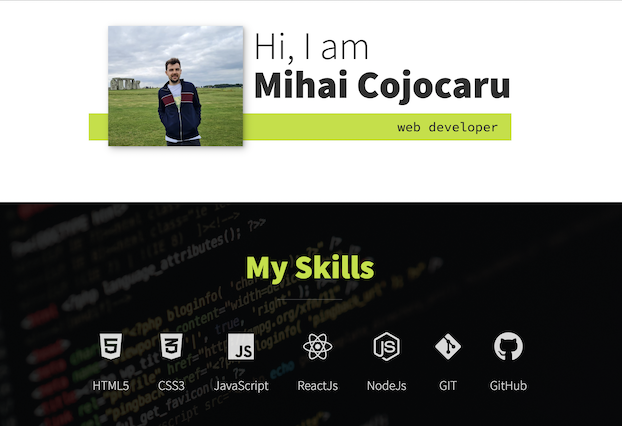
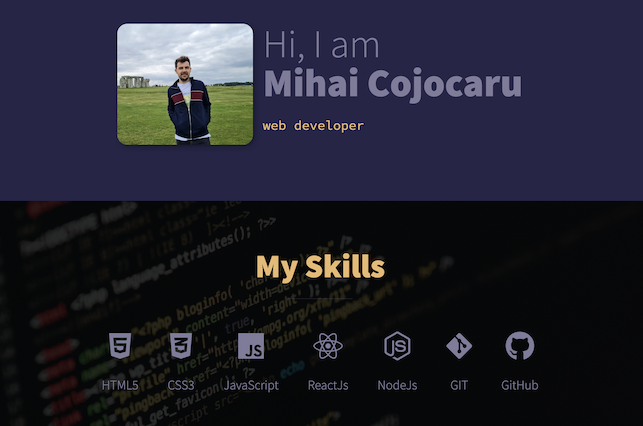
colors updated

diff --git a/style.css b/style.css
@@ -13,9 +13,11 @@
     --fw-reg: 300;
     --fw-bold: 900;
 
-    --clr-light: #fff;
-    --clr-dark: #303030;
-    --clr-accent: #bee016;
+    --clr-light: #7F7C9B;
+    --clr-dark: #111;
+    --clr-accent: #EBB96E;
+
+    --bg-color: #262548;
 
     --fs-h1: 3rem;
     --fs-h2: 2.25rem;
@@ -42,8 +44,8 @@ html {
 }
 
 body {
-    background: var(--clr-light);
-    color: var(--clr-dark);
+    background: var(--bg-color);
+    color: var(--clr-light);
     margin: 0;
     font-family: var(--ff-primary);
     font-size: var(--fs-body);
@@ -67,10 +69,11 @@ strong {
 
 .btn {
     display: inline-block;
-    padding: 0.5em 1.5em;
+    padding: 0.5em 1em;
     background: var(--clr-accent);
     color: var(--clr-dark);
     text-decoration: none;
+    border-radius: .5em;
     cursor: pointer;
     font-size: 0.8rem;
     text-transform: uppercase;
@@ -80,7 +83,7 @@ strong {
 }
 
 .btn:hover {
-    transform: scale(1.1);
+    background-color: var(--clr-light);
 }
 
 /* Typography */
@@ -123,9 +126,9 @@ h3 {
 
 .section__subtitle--intro,
 .section__subtitle--about {
-    background: var(--clr-accent);
+    color: var(--clr-accent);
     font-family: var(--ff-secondary);
-    padding: 0.25em 1em;
+    padding: 0.25em 0;
     margin-bottom: 1em;
 }
 
@@ -140,7 +143,8 @@ h3 {
 .header {
     display: flex;
     justify-content: space-between;
-    padding: 1em;
+    padding: 1.2em 2em;
+    box-shadow: var(--bs);
 }
 
 .logo {
@@ -148,6 +152,7 @@ h3 {
     align-items: center;
     gap: 0.3em;
     height: 1em;
+    color: var(--clr-accent);
 }
 
 .logo p {
@@ -161,7 +166,7 @@ h3 {
 
 .nav {
     position: fixed;
-    background: var(--clr-dark);
+    background: var(--bg-color);
     color: var(--clr-light);
     top: 0;
     bottom: 0;
@@ -264,6 +269,7 @@ h3 {
 
 .intro__img {
     box-shadow: var(--bs);
+    border-radius: 1em;
 }
 
 .section__subtitle--intro {
@@ -286,44 +292,28 @@ h3 {
         grid-area: img;
         min-width: 250px;
         position: relative;
-        z-index: 2;
-    }
-
-    .section__subtitle--intro {
-        align-self: start;
-        grid-column: -1 / 1;
-        grid-row: 2;
-        text-align: right;
-        position: relative;
-        left: -1.5em;
-        width: calc(100% + 1.5em);
+        border-radius: 1em;
     }
 }
 
 /* My skills section */
 
 .my-skills {
-    background-color: var(--clr-dark);
+    background-color: #333;
     background-image: url(./images/skills-bg.jpg);
     background-size: cover;
     background-blend-mode: multiply;
     color: var(--clr-light);
     text-align: center;
+    box-shadow: var(--bs);
+    margin-left: 2em;
+    margin-right: 2em;
+    border-radius: 1em;
 }
 
 .section__title--skills {
     color: var(--clr-accent);
     position: relative;
-}
-
-.section__title--skills::after {
-    content: "";
-    display: block;
-    width: 2em;
-    height: 1.3px;
-    margin: 0.5em auto 1em;
-    background: var(--clr-light);
-    opacity: 0.25;
 }
 
 .skills {
@@ -333,7 +323,7 @@ h3 {
     flex-wrap: wrap;
     gap: 3em;
     color: var(--clr-light);
-    opacity: 0.85;
+    margin-top: 5em;
 }
 
 .skills .fa-brands {
@@ -359,6 +349,7 @@ h3 {
 
 .about-me__img {
     box-shadow: var(--bs);
+    border-radius: 1em;
 }
 
 @media (min-width: 600px) {
@@ -376,27 +367,15 @@ h3 {
         grid-area: title;
     }
 
-    .section__subtitle--about {
-        grid-column: 1 / -1;
-        grid-row: 2;
-        position: relative;
-        left: -1em;
-        width: calc(100% + 2em);
-        padding-left: 1em;
-        padding-right: calc(200px + 1.5em);
-    }
-
     .about-me__img {
         grid-area: img;
         position: relative;
-        z-index: 2;
     }
 }
 
 /* My work section */
 
 .my-work {
-    background-color: var(--clr-dark);
     color: var(--clr-light);
     text-align: center;
 }
@@ -404,11 +383,15 @@ h3 {
 .portfolio {
     display: grid;
     grid-template-columns: repeat(auto-fit, minmax(325px, 1fr));
+    grid-gap: 0.5em;
 }
 
 .portfolio__item {
     position: relative;
     overflow: hidden;
+    background-color: var(--clr-dark);
+    border-radius: 1em;
+    box-shadow: var(--bs);
 }
 
 .portfolio__img {
@@ -419,7 +402,7 @@ h3 {
 }
 
 .portfolio__item:hover .portfolio__img {
-    opacity: 0.1;
+    opacity: 0.2;
 }
 
 .portfolio__item--overlay {
@@ -434,8 +417,16 @@ h3 {
     opacity: 0;
 }
 
+.portfolio__item--overlay h3 {
+    color: var(--clr-accent);
+}
+
+.portfolio__item--overlay p {
+    color: #ffffff;
+}
+
 .portfolio__item--overlay a+a {
-    margin-left: 1em;
+    margin-left: .5em;
 }
 
 .portfolio__item:hover .portfolio__item--overlay {
@@ -446,11 +437,10 @@ h3 {
 /* footer */
 
 .footer {
-    background: #111;
     color: var(--clr-accent);
     text-align: center;
-    padding: 2.5em 0;
-    font-size: var(--fs-h3);
+    padding: .5em 0;
+    box-shadow: rgba(0, 0, 0, 0.25) 0px 54px 55px, rgba(0, 0, 0, 0.12) 0px -12px 30px, rgba(0, 0, 0, 0.12) 0px 4px 6px, rgba(0, 0, 0, 0.17) 0px 12px 13px, rgba(0, 0, 0, 0.09) 0px -3px 5px;
 }
 
 .footer a {
@@ -458,13 +448,17 @@ h3 {
     text-decoration: none;
 }
 
-.footer__link {
-    font-weight: var(--fw-bold);
+footer i {
+    font-size: 1.5em;
+    transition: transform 200ms ease-in-out;
 }
 
-.footer__link:hover,
-.social-list__link:hover {
-    opacity: 0.7;
+footer i:hover {
+    color: var(--clr-light);
+}
+
+.footer__link {
+    font-weight: var(--fw-bold);
 }
 
 .footer__link:hover {
@@ -474,8 +468,9 @@ h3 {
 .social-list {
     list-style: none;
     display: flex;
+    align-items: center;
     justify-content: center;
-    margin: 2em 0 0;
+    margin: 1em 0 0;
     padding: 0;
 }
 

diff --git a/index.html b/index.html
@@ -215,7 +215,6 @@
 
     <!-- Footer -->
     <footer class="footer">
-        <a href="mailto:mihai.cojocaru86@yahoo.com" class="footer__link">mihai.cojocaru86@yahoo.com</a>
         <ul class="social-list">
             <li class="social-list__item">
                 <a class="social-list__link" href="https://www.linkedin.com/in/mihai-cojocaru-b67375189/"
@@ -231,6 +230,11 @@
             <li class="social-list__item">
                 <a class="social-list__link" href="https://github.com/WIHVI" target="_blank">
                     <i class="fa-brands fa-square-github"></i>
+                </a>
+            </li>
+            <li class="social-list__item">
+                <a class="social-list__link" href="mailto:mihai.cojocaru86@yahoo.com">
+                    <i class="fa-solid fa-envelope"></i>
                 </a>
             </li>
         </ul>
